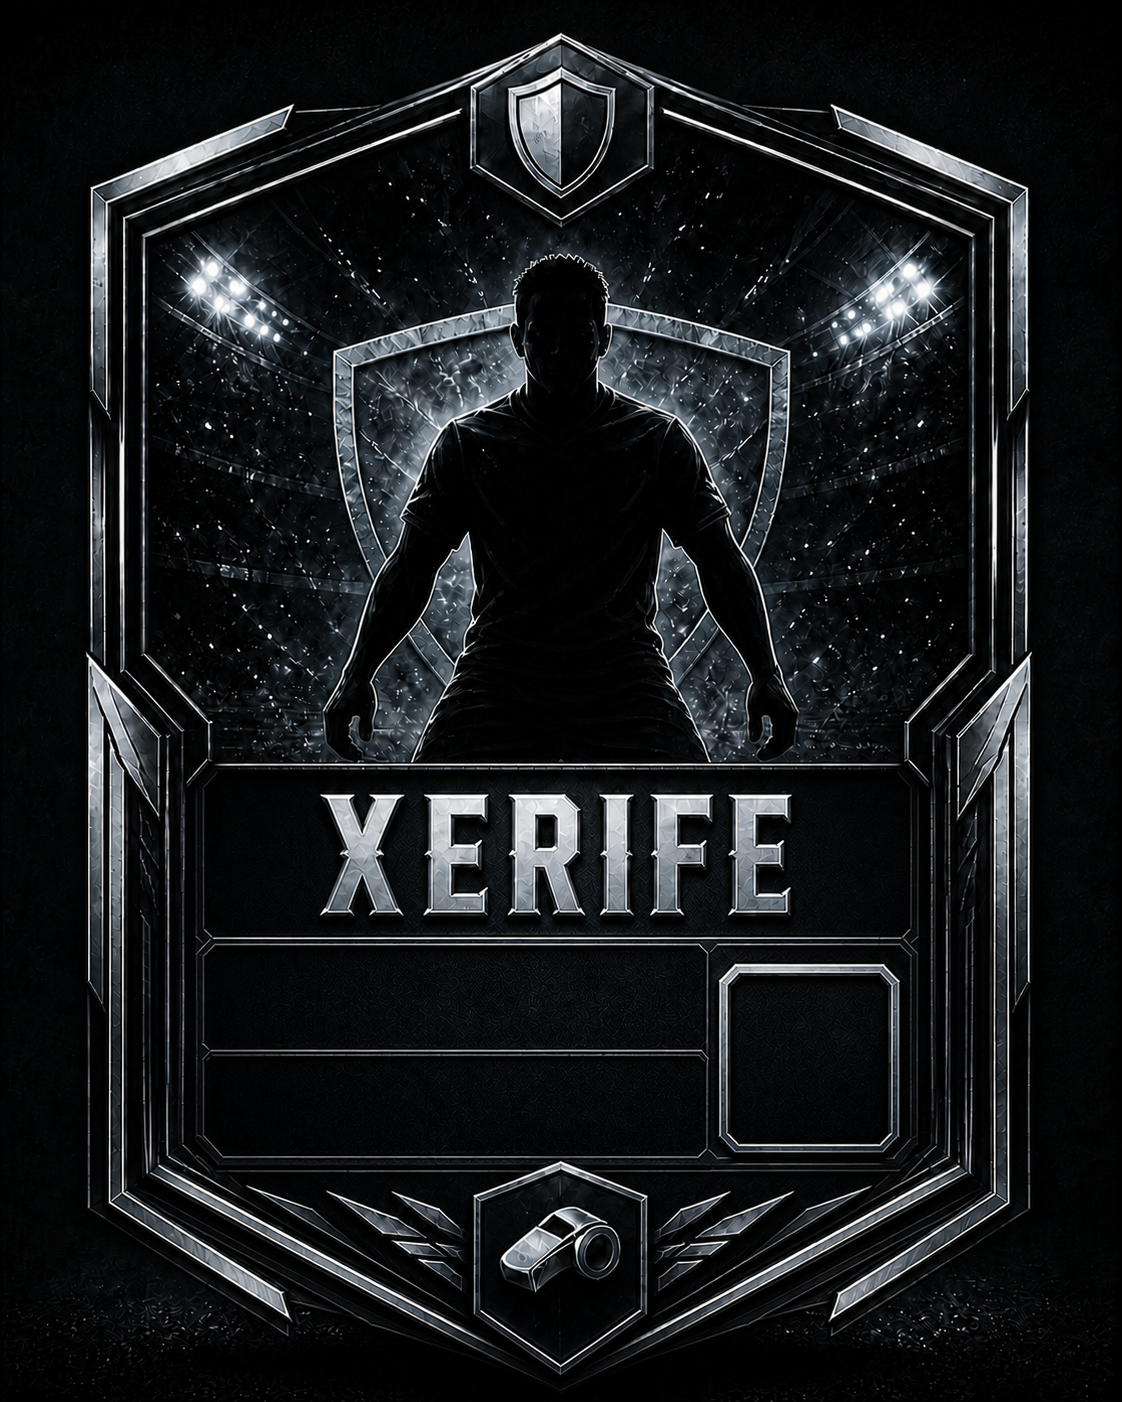
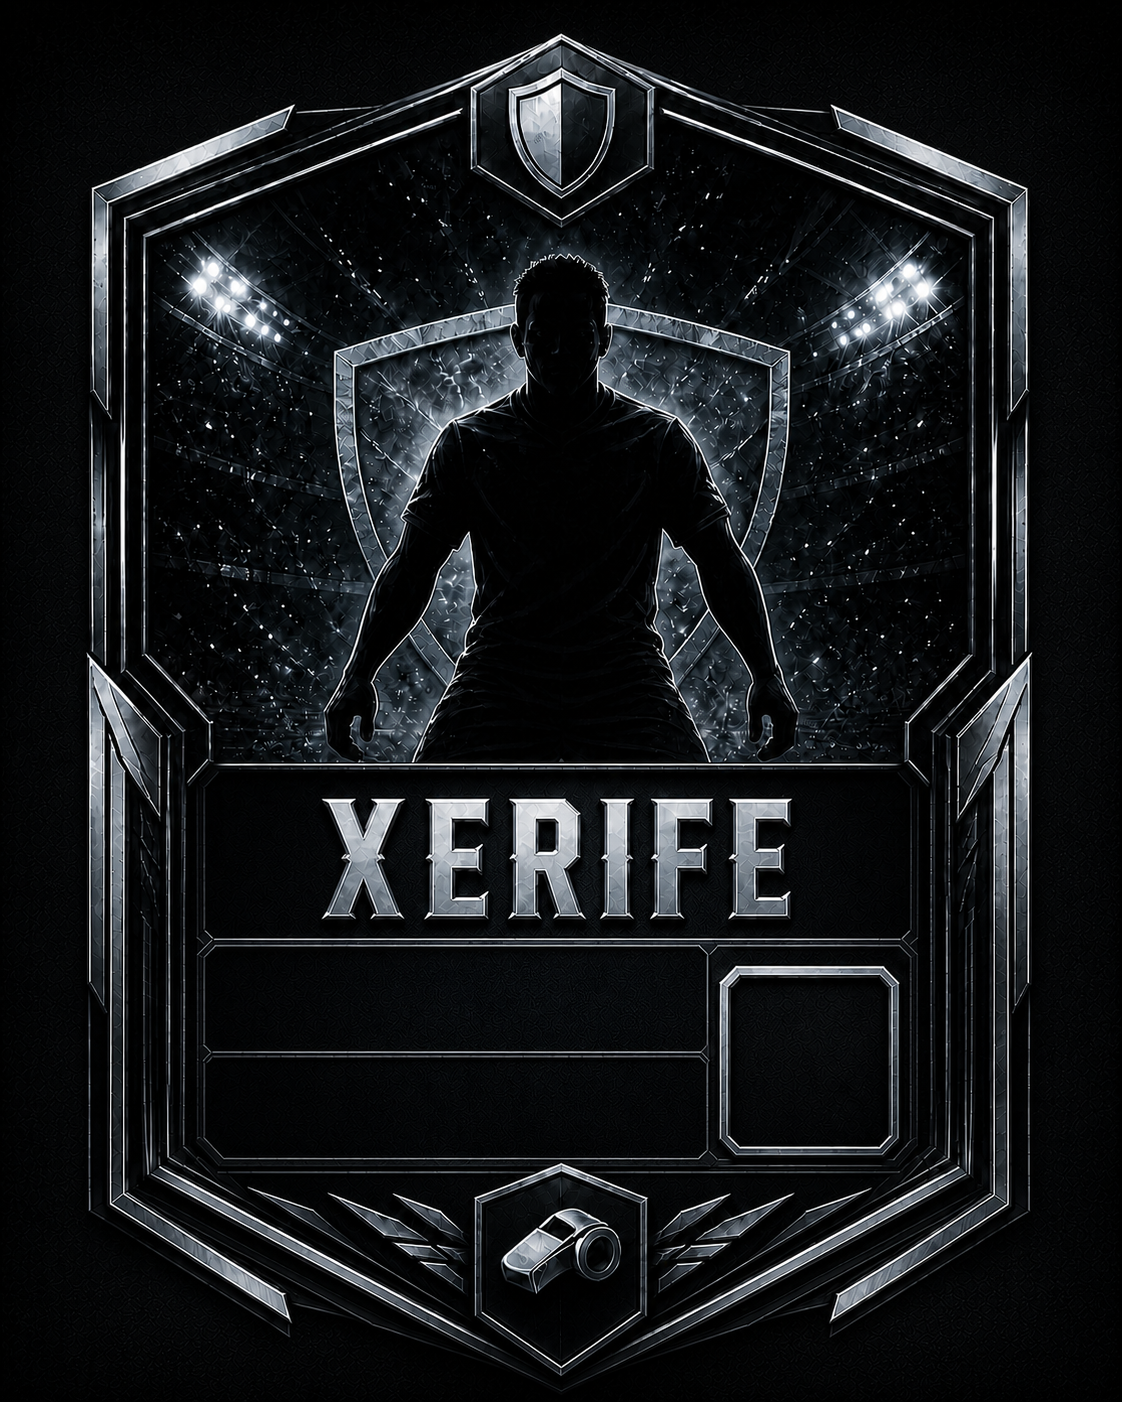
Standardize tournament award card layouts

diff --git a/components/admin/award-card-studio.tsx b/components/admin/award-card-studio.tsx
@@ -3,14 +3,14 @@
 import { useEffect, useState } from "react"
 import { Download, ExternalLink, QrCode } from "lucide-react"
 import QRCode from "qrcode"
-import "@fontsource/bebas-neue"
+import "@fontsource/anton"
 import { Button } from "@/components/ui/button"
 import { AWARD_CARD_CONFIG as AWARDS, type AwardCardKey as AwardKey } from "@/lib/award-card-config"
 
 function fitText(ctx: CanvasRenderingContext2D, text: string, maxWidth: number, initialSize: number) {
   let size = initialSize
   do {
-    ctx.font = `400 ${size}px "Bebas Neue", Impact, sans-serif`
+    ctx.font = `400 ${size}px Anton, Impact, sans-serif`
     size -= 2
   } while (size > 30 && ctx.measureText(text).width > maxWidth)
 }
@@ -44,7 +44,7 @@ export function AwardCardStudio() {
   }
 
   async function download() {
-    await document.fonts.load('400 100px "Bebas Neue"')
+    await document.fonts.load('400 100px Anton')
     const background = new Image()
     background.src = award.image
     await background.decode()
@@ -54,15 +54,16 @@ export function AwardCardStudio() {
     const ctx = canvas.getContext("2d")
     if (!ctx) return
     ctx.drawImage(background, 0, 0)
-    const nick = (name.trim() || "Jogador").slice(0, 28)
+    const nick = (name.trim() || "Jogador").toUpperCase().slice(0, 28)
     const achievement = (value.trim() || "0").toUpperCase().slice(0, 34)
     ctx.textAlign = "center"
     ctx.textBaseline = "middle"
     ctx.lineJoin = "round"
-    ctx.shadowColor = award.color
-    ctx.shadowBlur = canvas.width * 0.014
+    ctx.shadowColor = "rgba(0,0,0,.95)"
+    ctx.shadowBlur = canvas.width * 0.007
+    ctx.shadowOffsetY = canvas.width * 0.004
     ctx.strokeStyle = "rgba(0,0,0,.96)"
-    ctx.lineWidth = canvas.width * 0.007
+    ctx.lineWidth = canvas.width * 0.005
     const nickSize = canvas.width * 0.068
     fitText(ctx, nick, canvas.width * award.textWidth, nickSize)
     ctx.fillStyle = metallicGradient(ctx, canvas.height * award.nickY, nickSize, "#ffffff", "#9aa4b2", "#f8fafc")
@@ -110,8 +111,8 @@ export function AwardCardStudio() {
         <div className="mb-2 flex items-center justify-between"><span className="text-[10px] font-black uppercase tracking-[0.16em] text-gray-500">Prévia real</span><span className="flex items-center gap-1 text-[10px] text-gray-600"><ExternalLink className="h-3 w-3" />4:5</span></div>
         <div className="relative mx-auto aspect-[4/5] w-full max-w-[440px] overflow-hidden rounded-2xl bg-black shadow-2xl ring-1 ring-white/10">
           <img src={award.image} alt={`Template ${award.title}`} className="absolute inset-0 h-full w-full object-cover" />
-          <p className="absolute w-[52%] -translate-x-1/2 -translate-y-1/2 truncate bg-clip-text text-center text-[clamp(26px,4.5vw,39px)] leading-none text-transparent [font-family:'Bebas_Neue',Impact,sans-serif] [-webkit-text-stroke:1px_rgba(0,0,0,.9)]" style={{ backgroundImage: "linear-gradient(180deg,#fff 0%,#9aa4b2 44%,#fff 58%,#cbd5e1 100%)", filter: `drop-shadow(0 0 5px ${award.color}99) drop-shadow(0 3px 2px #000)`, left: `${award.nickX * 100}%`, top: `${award.nickY * 100}%` }}>{name || "Jogador"}</p>
-          <p className="absolute w-[52%] -translate-x-1/2 -translate-y-1/2 truncate bg-clip-text text-center text-[clamp(17px,3vw,25px)] leading-none text-transparent [font-family:'Bebas_Neue',Impact,sans-serif] [-webkit-text-stroke:1px_rgba(0,0,0,.9)]" style={{ backgroundImage: `linear-gradient(180deg,${award.highlight} 0%,#fff 48%,${award.color} 100%)`, filter: `drop-shadow(0 0 5px ${award.color}aa) drop-shadow(0 3px 2px #000)`, left: `${award.statX * 100}%`, top: `${award.statY * 100}%` }}>{value || "0"}</p>
+          <p className="absolute w-[52%] -translate-x-1/2 -translate-y-1/2 truncate bg-clip-text text-center text-[clamp(28px,4.5vw,40px)] leading-none tracking-[0.025em] text-transparent [font-family:'Anton',Impact,sans-serif] [-webkit-text-stroke:1px_rgba(0,0,0,.95)]" style={{ backgroundImage: "linear-gradient(180deg,#fff 0%,#aab2bd 44%,#fff 58%,#cbd5e1 100%)", filter: "drop-shadow(0 3px 2px #000)", left: `${award.nickX * 100}%`, top: `${award.nickY * 100}%` }}>{(name || "Jogador").toUpperCase()}</p>
+          <p className="absolute w-[52%] truncate bg-clip-text text-center text-[clamp(18px,3vw,25px)] leading-none tracking-[0.02em] text-transparent [font-family:'Anton',Impact,sans-serif] [-webkit-text-stroke:1px_rgba(0,0,0,.95)]" style={{ backgroundImage: `linear-gradient(180deg,${award.highlight} 0%,#fff 45%,${award.color} 100%)`, filter: "drop-shadow(0 3px 2px #000)", left: `${award.statX * 100}%`, top: `${award.statY * 100}%`, transform: `translate(-50%,-50%) scale(${award.statScale})` }}>{value || "0"}</p>
           {qrPreview && <span className="absolute block aspect-square overflow-hidden" style={{ left: `${award.qrX * 100}%`, top: `${award.qrY * 100}%`, width: `${award.qrSize * 100}%` }}><img src={qrPreview} alt="QR Code do campeonato" className="h-full w-full" /></span>}
         </div>
       </div>

diff --git a/app/dashboard/tournaments/[id]/ea-stats-view.tsx b/app/dashboard/tournaments/[id]/ea-stats-view.tsx
@@ -3,7 +3,7 @@
 import { useCallback, useEffect, useState } from "react"
 import { BarChart3, Crosshair, Download, Goal, Hand, Loader2, Medal, Shield, Sparkles } from "lucide-react"
 import QRCode from "qrcode"
-import "@fontsource/bebas-neue"
+import "@fontsource/anton"
 import { Card } from "@/components/ui/card"
 import { EmptyState, TeamCrest } from "@/components/competitions/shared"
 import { getTournamentEaStats } from "@/lib/services/tournaments"
@@ -22,7 +22,7 @@ const TAGS: Record<string, string> = {
 async function downloadAwardPng(title: string, subtitle: string, player: TournamentEaPlayerStats, value: string, tournamentId: string) {
   const template = awardCardByTitle(title)
   if (template) {
-    await document.fonts.load('400 100px "Bebas Neue"')
+    await document.fonts.load('400 100px Anton')
     const background = new Image()
     background.src = template.image
     await background.decode()
@@ -34,7 +34,7 @@ async function downloadAwardPng(title: string, subtitle: string, player: Tournam
     outputContext.drawImage(background, 0, 0)
     const fit = (text: string, maxWidth: number, initialSize: number) => {
       let size = initialSize
-      do { outputContext.font = `400 ${size}px "Bebas Neue", Impact, sans-serif`; size -= 2 } while (size > 30 && outputContext.measureText(text).width > maxWidth)
+      do { outputContext.font = `400 ${size}px Anton, Impact, sans-serif`; size -= 2 } while (size > 30 && outputContext.measureText(text).width > maxWidth)
     }
     const metallicGradient = (y: number, size: number, top: string, middle: string, bottom: string) => {
       const gradient = outputContext.createLinearGradient(0, y - size * 0.55, 0, y + size * 0.55)
@@ -47,15 +47,17 @@ async function downloadAwardPng(title: string, subtitle: string, player: Tournam
     outputContext.textAlign = "center"
     outputContext.textBaseline = "middle"
     outputContext.lineJoin = "round"
-    outputContext.shadowColor = template.color
-    outputContext.shadowBlur = output.width * 0.014
+    outputContext.shadowColor = "rgba(0,0,0,.95)"
+    outputContext.shadowBlur = output.width * 0.007
+    outputContext.shadowOffsetY = output.width * 0.004
     outputContext.strokeStyle = "rgba(0,0,0,.96)"
-    outputContext.lineWidth = output.width * 0.007
+    outputContext.lineWidth = output.width * 0.005
+    const nick = player.playerName.toUpperCase()
     const nickSize = output.width * 0.068
-    fit(player.playerName, output.width * template.textWidth, nickSize)
+    fit(nick, output.width * template.textWidth, nickSize)
     outputContext.fillStyle = metallicGradient(output.height * template.nickY, nickSize, "#ffffff", "#9aa4b2", "#f8fafc")
-    outputContext.strokeText(player.playerName, output.width * template.nickX, output.height * template.nickY)
-    outputContext.fillText(player.playerName, output.width * template.nickX, output.height * template.nickY)
+    outputContext.strokeText(nick, output.width * template.nickX, output.height * template.nickY)
+    outputContext.fillText(nick, output.width * template.nickX, output.height * template.nickY)
     const statSize = output.width * 0.046
     fit(value.toUpperCase(), output.width * template.textWidth, statSize)
     outputContext.fillStyle = metallicGradient(output.height * template.statY, statSize, template.highlight, "#ffffff", template.color)

diff --git a/lib/award-card-config.ts b/lib/award-card-config.ts
@@ -1,10 +1,10 @@
 export const AWARD_CARD_CONFIG = {
-  artilheiro: { title: "ARTILHEIRO", value: "12 GOLS", image: "/images/awards/artilheiro-template.png?v=4", color: "#ffbd35", highlight: "#fff0b0", nickX: 0.41, nickY: 0.73, statX: 0.41, statY: 0.80, qrX: 0.655, qrY: 0.714, qrSize: 0.132, textWidth: 0.43 },
-  garcom: { title: "GARÇOM", value: "9 ASSISTÊNCIAS", image: "/images/awards/garcom-template.png?v=4", color: "#38bdf8", highlight: "#d8f5ff", nickX: 0.41, nickY: 0.735, statX: 0.41, statY: 0.795, qrX: 0.655, qrY: 0.708, qrSize: 0.132, textWidth: 0.41 },
-  craque: { title: "CRAQUE DO CAMPEONATO", value: "NOTA 9,2", image: "/images/awards/craque-template.png?v=4", color: "#f4c542", highlight: "#fff2a8", nickX: 0.40, nickY: 0.714, statX: 0.40, statY: 0.803, qrX: 0.655, qrY: 0.684, qrSize: 0.132, textWidth: 0.42 },
-  maestro: { title: "MAESTRO", value: "184 PASSES CERTOS", image: "/images/awards/maestro-template.png?v=4", color: "#2dd4bf", highlight: "#c9fff7", nickX: 0.42, nickY: 0.695, statX: 0.42, statY: 0.776, qrX: 0.652, qrY: 0.667, qrSize: 0.132, textWidth: 0.42 },
-  xerife: { title: "XERIFE", value: "31 DESARMES", image: "/images/awards/xerife-template.png?v=4", color: "#e2e8f0", highlight: "#ffffff", nickX: 0.41, nickY: 0.708, statX: 0.41, statY: 0.79, qrX: 0.652, qrY: 0.686, qrSize: 0.132, textWidth: 0.48 },
-  muralha: { title: "MURALHA", value: "27 DEFESAS", image: "/images/awards/muralha-template.png?v=4", color: "#ef4444", highlight: "#ffc2c2", nickX: 0.41, nickY: 0.715, statX: 0.41, statY: 0.79, qrX: 0.652, qrY: 0.686, qrSize: 0.132, textWidth: 0.43 },
+  artilheiro: { title: "ARTILHEIRO", value: "12 GOLS", image: "/images/awards/artilheiro-template.png?v=6", color: "#ffbd35", highlight: "#fff0b0", nickX: 0.41, nickY: 0.73, statX: 0.41, statY: 0.80, qrX: 0.655, qrY: 0.714, qrSize: 0.132, textWidth: 0.43, statScale: 1 },
+  garcom: { title: "GARÇOM", value: "9 ASSISTÊNCIAS", image: "/images/awards/garcom-template.png?v=6", color: "#38bdf8", highlight: "#d8f5ff", nickX: 0.41, nickY: 0.742, statX: 0.41, statY: 0.803, qrX: 0.655, qrY: 0.708, qrSize: 0.132, textWidth: 0.41, statScale: 0.9 },
+  craque: { title: "CRAQUE DO CAMPEONATO", value: "NOTA 9,2", image: "/images/awards/craque-template.png?v=6", color: "#f4c542", highlight: "#fff2a8", nickX: 0.40, nickY: 0.715, statX: 0.40, statY: 0.804, qrX: 0.655, qrY: 0.684, qrSize: 0.132, textWidth: 0.42, statScale: 1 },
+  maestro: { title: "MAESTRO", value: "184 PASSES CERTOS", image: "/images/awards/maestro-template.png?v=6", color: "#2dd4bf", highlight: "#c9fff7", nickX: 0.415, nickY: 0.72, statX: 0.415, statY: 0.805, qrX: 0.655, qrY: 0.687, qrSize: 0.132, textWidth: 0.42, statScale: 0.78 },
+  xerife: { title: "XERIFE", value: "31 DESARMES", image: "/images/awards/xerife-template.png?v=6", color: "#e2e8f0", highlight: "#ffffff", nickX: 0.41, nickY: 0.71, statX: 0.41, statY: 0.79, qrX: 0.652, qrY: 0.686, qrSize: 0.132, textWidth: 0.48, statScale: 0.92 },
+  muralha: { title: "MURALHA", value: "27 DEFESAS", image: "/images/awards/muralha-template.png?v=6", color: "#ef4444", highlight: "#ffc2c2", nickX: 0.41, nickY: 0.715, statX: 0.41, statY: 0.79, qrX: 0.652, qrY: 0.686, qrSize: 0.132, textWidth: 0.43, statScale: 0.94 },
 } as const
 
 export type AwardCardKey = keyof typeof AWARD_CARD_CONFIG
